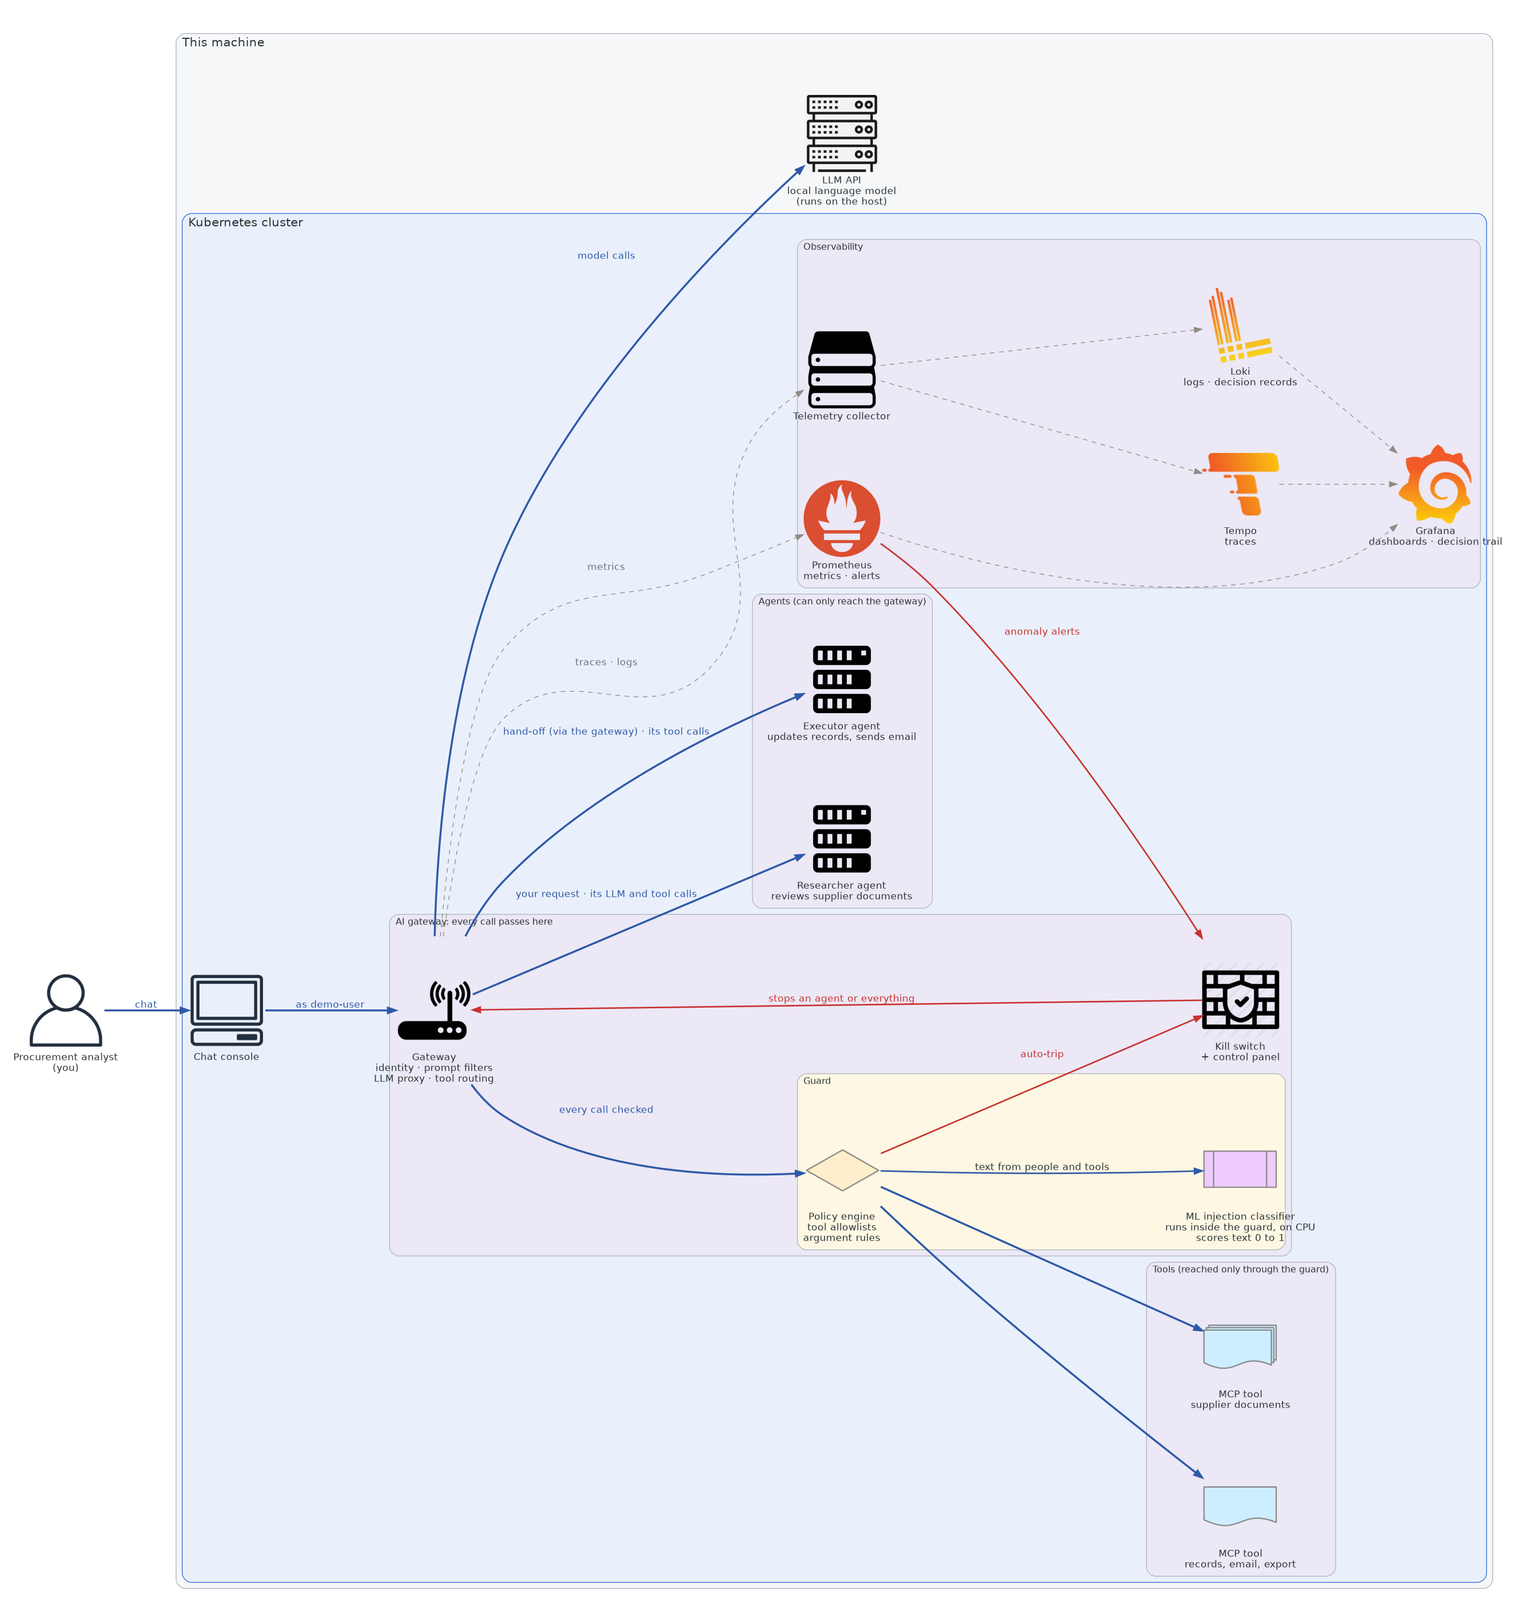
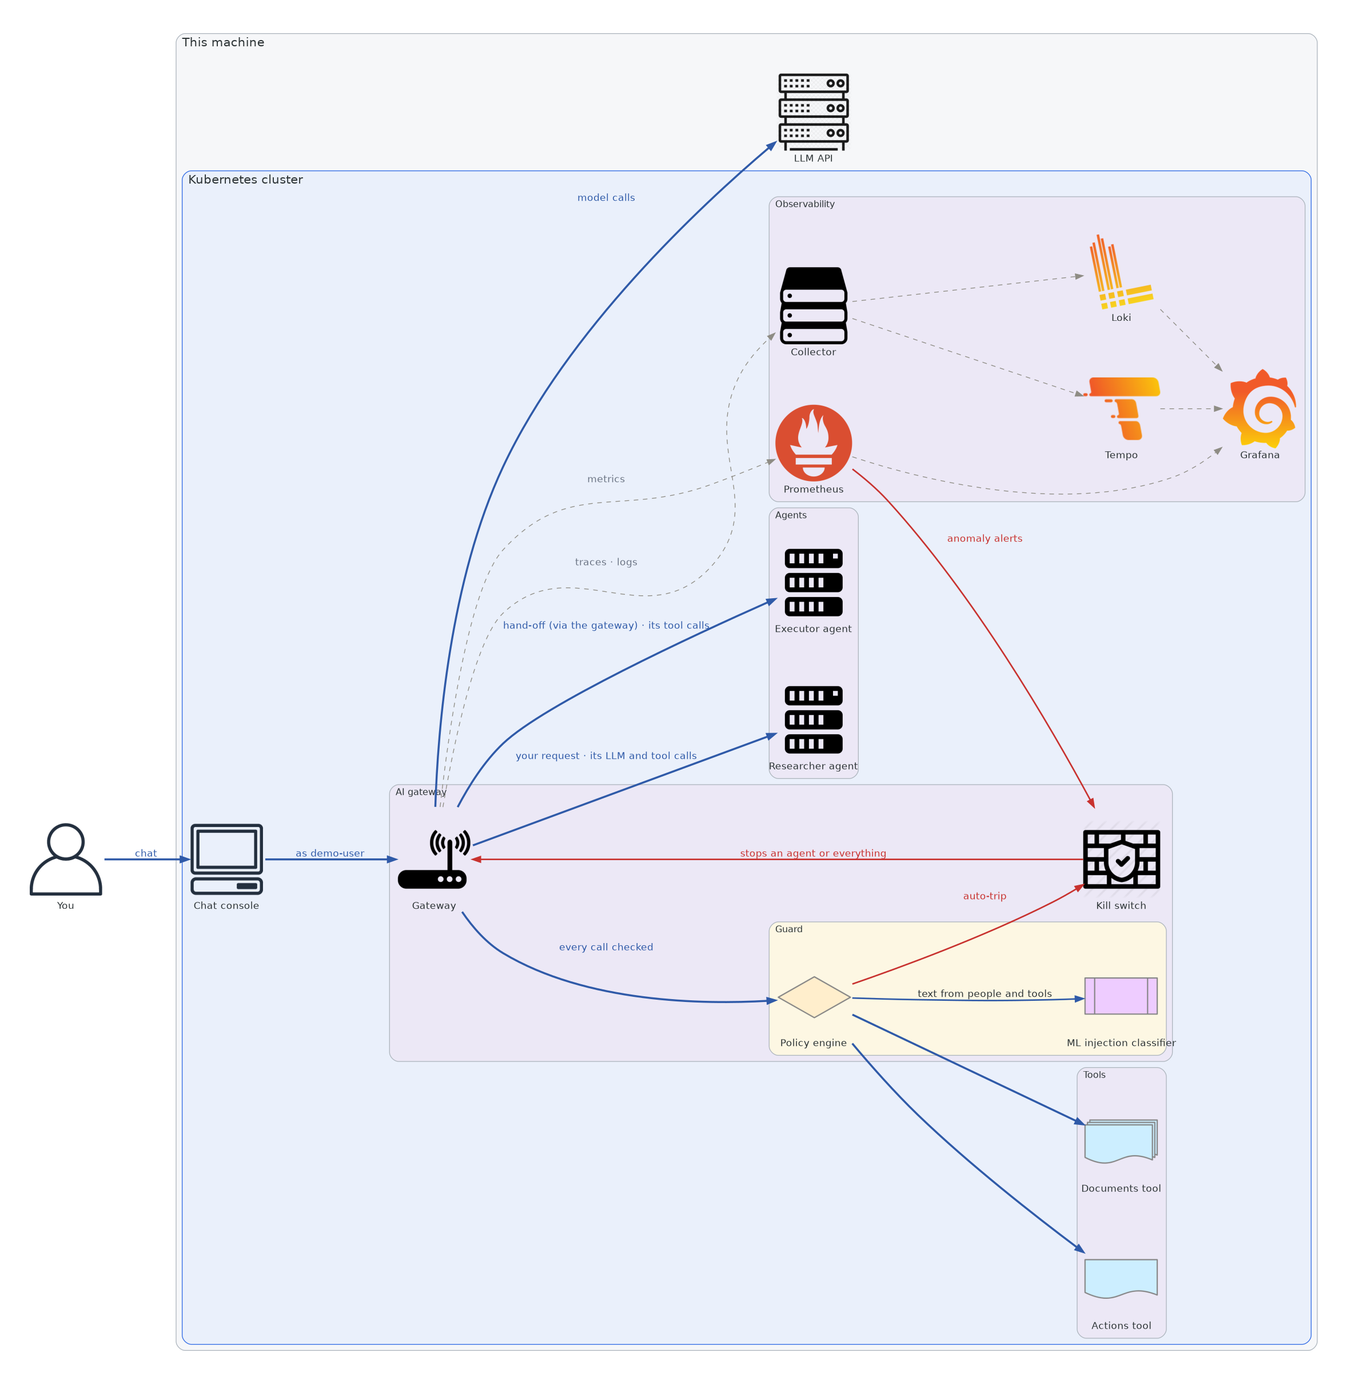
How it works as a clickable architecture page; components labelled by name only (D-049)

diff --git a/services/console/src/console_app/static/architecture.html b/services/console/src/console_app/static/architecture.html
@@ -1,0 +1,233 @@
+<!doctype html>
+<html lang="en">
+<head>
+<meta charset="utf-8">
+<meta name="viewport" content="width=device-width, initial-scale=1">
+<title>How it works</title>
+<link rel="preconnect" href="https://fonts.googleapis.com">
+<link rel="stylesheet" href="https://fonts.googleapis.com/css2?family=Atkinson+Hyperlegible+Next:wght@400;600;700&display=swap">
+<style>
+  :root {
+    --fog: #eef1f4; --paper: #ffffff; --ink: #1c2433; --muted: #6b7484;
+    --lane: #2f5aa8; --lane-soft: #d6e0f2; --stop: #c8322f; --stop-soft: #f7e1e0;
+    --rule: #d8dde4; --k8s: #326ce5; --k8s-soft: #e9effc; --obs: #8e8c84;
+    color-scheme: light;
+  }
+  @media (prefers-color-scheme: dark) {
+    :root:not([data-theme="light"]) {
+      --fog: #141a24; --paper: #1d2533; --ink: #e8ecf2; --muted: #9aa3b2;
+      --lane: #6f97e0; --lane-soft: #26375a; --stop: #f0706c; --stop-soft: #3a2224;
+      --rule: #2c3647; --k8s: #6f97e0; --k8s-soft: #18223a; --obs: #9aa3b2; color-scheme: dark;
+    }
+  }
+  * { box-sizing: border-box; }
+  body { margin: 0; background: var(--fog); color: var(--ink);
+    font: 400 16px/1.45 "Atkinson Hyperlegible Next", "Atkinson Hyperlegible", system-ui, sans-serif; }
+  header { padding: 14px clamp(16px, 3vw, 32px); border-bottom: 1px solid var(--rule); background: var(--paper);
+    display: flex; align-items: baseline; gap: 16px; flex-wrap: wrap; }
+  h1 { font-size: 1.15rem; margin: 0; }
+  header p { margin: 0; color: var(--muted); font-size: 0.9rem; }
+  header a { color: var(--muted); }
+  .spacer { flex: 1; }
+
+  .page { max-width: 76rem; margin: 0 auto; padding: 20px 16px 32px; display: grid; grid-template-columns: 1fr 20rem; gap: 20px; align-items: start; }
+  .map { display: flex; flex-direction: column; gap: 0; }
+
+  /* boundaries: the machine, and the Kubernetes cluster inside it */
+  .machine { border: 1px solid var(--rule); border-radius: 14px; padding: 12px; background: color-mix(in srgb, var(--paper) 40%, var(--fog)); }
+  .machine-grid { display: grid; grid-template-columns: 1fr 11rem; gap: 12px; align-items: stretch; }
+  .cluster { border: 2px solid var(--k8s); border-radius: 12px; padding: 12px; background: var(--k8s-soft); display: flex; flex-direction: column; }
+  .bound { font-size: 0.8rem; color: var(--muted); margin: 0 0 8px; font-weight: 600; }
+  .cluster > .bound { color: var(--k8s); }
+
+  .group { border: 1px solid var(--rule); border-radius: 10px; padding: 10px; background: var(--paper); }
+  .group.gw { border: 2px solid var(--lane); }
+  .group h2 { font-size: 0.85rem; margin: 0 0 8px; color: var(--muted); font-weight: 600; }
+  .group.gw h2 { color: var(--lane); }
+  .items { display: flex; gap: 8px; flex-wrap: wrap; }
+  .row3 { display: grid; grid-template-columns: 1fr 1fr; gap: 12px; }
+  .obs .items { display: grid; grid-template-columns: repeat(5, 1fr); }
+
+  button.c { font: inherit; text-align: left; flex: 1 1 9rem; min-width: 0; background: var(--fog); color: var(--ink);
+    border: 1px solid var(--rule); border-radius: 8px; padding: 8px 10px; cursor: pointer; }
+  button.c strong { display: block; font-size: 0.95rem; }
+  button.c span { display: block; color: var(--muted); font-size: 0.8rem; }
+  button.c:hover { border-color: var(--lane); }
+  button.c[aria-pressed="true"] { border-color: var(--lane); background: var(--lane-soft); }
+  button.c:focus-visible { outline: 3px solid var(--lane); outline-offset: 2px; }
+  button.c.ks { border-color: var(--stop); }
+  button.c.ks strong { color: var(--stop); }
+  .guard { flex: 2 1 18rem; border: 1px dashed var(--rule); border-radius: 8px; padding: 6px; display: flex; gap: 6px; flex-wrap: wrap; }
+  .guard > .bound { width: 100%; margin: 0 0 2px 4px; }
+
+  /* the links between layers */
+  .link { display: flex; align-items: center; gap: 10px; padding: 4px 0 4px 24px; color: var(--lane); font-size: 0.85rem; }
+  .link::before { content: ""; width: 2px; height: 22px; background: var(--lane); }
+  .link.obs-link { color: var(--obs); }
+  .link.obs-link::before { background: none; border-left: 2px dashed var(--obs); }
+  .you { display: flex; align-items: center; gap: 10px; }
+  .you button.c { flex: 0 1 16rem; }
+
+  .host { display: flex; flex-direction: column; gap: 8px; }
+  .host button.c { flex: none; background: var(--paper); }
+  .host .note { color: var(--lane); font-size: 0.8rem; }
+
+  .key { display: flex; gap: 18px; flex-wrap: wrap; color: var(--muted); font-size: 0.82rem; margin-top: 12px; }
+  .key i { display: inline-block; width: 22px; vertical-align: middle; margin-right: 6px; border-top: 2px solid var(--lane); }
+  .key i.ctl { border-color: var(--stop); }
+  .key i.tel { border-top: 2px dashed var(--obs); }
+
+  aside { position: sticky; top: 16px; background: var(--paper); border: 1px solid var(--rule); border-radius: 12px; padding: 16px 18px; }
+  aside h2 { font-size: 1.1rem; margin: 0 0 6px; }
+  aside p { margin: 0 0 10px; }
+  aside .demo { color: var(--muted); font-size: 0.92rem; border-top: 1px solid var(--rule); padding-top: 10px; }
+
+  @media (max-width: 960px) {
+    .page { grid-template-columns: 1fr; }
+    aside { position: static; order: -1; }
+    .machine-grid { grid-template-columns: 1fr; }
+    .obs .items { grid-template-columns: repeat(2, 1fr); }
+    .row3 { grid-template-columns: 1fr; }
+  }
+</style>
+</head>
+<body>
+<header>
+  <h1>How it works</h1>
+  <p>Acme's supplier assistant, and the gateway every call passes through. Click any part to see what it does.</p>
+  <span class="spacer"></span>
+  <p><a href="./">Back to the chat</a></p>
+</header>
+
+<div class="page">
+  <div class="map">
+    <div class="you">
+      <button class="c" data-k="you"><strong>You</strong></button>
+    </div>
+    <div class="link">you chat in the browser</div>
+
+    <div class="machine">
+      <p class="bound">This machine</p>
+      <div class="machine-grid">
+        <div class="cluster">
+          <p class="bound">Kubernetes cluster</p>
+
+          <div class="group"><div class="items">
+            <button class="c" data-k="console"><strong>Chat console</strong></button>
+          </div></div>
+          <div class="link">every message goes to the gateway</div>
+
+          <div class="group gw">
+            <h2>AI gateway</h2>
+            <div class="items">
+              <button class="c" data-k="gateway"><strong>Gateway</strong></button>
+              <div class="guard">
+                <p class="bound">Guard</p>
+                <button class="c" data-k="policy"><strong>Policy engine</strong></button>
+                <button class="c" data-k="classifier"><strong>ML injection classifier</strong></button>
+              </div>
+              <button class="c ks" data-k="killswitch"><strong>Kill switch</strong></button>
+            </div>
+          </div>
+          <div class="link">agents and tools are reached only through the gateway</div>
+
+          <div class="row3">
+            <div class="group">
+              <h2>Agents</h2>
+              <div class="items">
+                <button class="c" data-k="researcher"><strong>Researcher agent</strong></button>
+                <button class="c" data-k="executor"><strong>Executor agent</strong></button>
+              </div>
+            </div>
+            <div class="group">
+              <h2>Tools</h2>
+              <div class="items">
+                <button class="c" data-k="docs"><strong>Documents tool</strong></button>
+                <button class="c" data-k="actions"><strong>Actions tool</strong></button>
+              </div>
+            </div>
+          </div>
+          <div class="link obs-link">everything reports traces, logs and metrics</div>
+
+          <div class="group obs">
+            <h2>Observability</h2>
+            <div class="items">
+              <button class="c" data-k="collector"><strong>Collector</strong></button>
+              <button class="c" data-k="tempo"><strong>Tempo</strong></button>
+              <button class="c" data-k="loki"><strong>Loki</strong></button>
+              <button class="c" data-k="prometheus"><strong>Prometheus</strong></button>
+              <button class="c" data-k="grafana"><strong>Grafana</strong></button>
+            </div>
+          </div>
+        </div>
+
+        <div class="host">
+          <p class="bound">Host</p>
+          <button class="c" data-k="llm"><strong>LLM API</strong></button>
+          <p class="note">reached only through the gateway</p>
+        </div>
+      </div>
+    </div>
+
+    <div class="key">
+      <span><i></i>requests</span>
+      <span><i class="ctl"></i>kill switch</span>
+      <span><i class="tel"></i>telemetry</span>
+    </div>
+  </div>
+
+  <aside aria-live="polite">
+    <h2 id="t"></h2>
+    <p id="d"></p>
+    <p class="demo" id="demo"></p>
+  </aside>
+</div>
+
+<script>
+const INFO = {
+  overview: ["The idea",
+    "Two AI agents do procurement work for Acme. They can't reach anything directly: the model, the tools and even each other are reached only through one gateway. That's where every call is identified, checked, recorded and, when needed, stopped.",
+    "Click any part of the diagram to see what it does."],
+  you: ["You", "A procurement analyst at Acme. You ask the assistant about suppliers and ask it to deal with their open items.",
+    "In the demo: everything you type is checked by the gateway before the assistant sees it."],
+  console: ["Chat console", "The chat page you're using. Its server holds the demo-user key, so the browser never sees a secret, and it sends every message to the gateway.",
+    "In the demo: Monitoring shows where each message went; Decision details opens the decision trail."],
+  gateway: ["Gateway", "The one way in and out. It checks who is calling (each agent has its own key), routes each call, proxies model calls to the LLM API, and asks the guard about anything risky.",
+    "In the demo: an agent with its kill switch on gets nothing past this point."],
+  policy: ["Policy engine", "The guard's rules, with no machine learning: which agent may use which tool, which email domains and record fields are allowed, and that no agent may ever export customer data. A critical violation suspends the agent at once.",
+    "In the demo: this is what stops the executor in the Coastal beat, although the document itself looked harmless."],
+  classifier: ["ML injection classifier", "A small machine-learning model trained to spot prompt injection. It's a text classifier, not a chat model, and it runs inside the guard on the CPU in tens of milliseconds. It scores what people send and what tools return; long documents are scored in sections.",
+    "In the demo: it blocks the typed attack and withholds the Meridian and Northstar documents."],
+  killswitch: ["Kill switch", "Stops one agent, all tools, or everything, by changing the gateway's configuration and then checking the change took effect. Every action is written to a tamper-evident audit log. The guard and alerts can pull it automatically; an operator can pull it from the control panel.",
+    "In the demo: it suspends the executor in the Coastal beat and the looping researcher in the rogue beat."],
+  researcher: ["Researcher agent", "Reads supplier review documents and answers your questions. It can't act on anything itself; follow-ups go to the executor, through the gateway.",
+    "In the demo: it's the agent you chat with."],
+  executor: ["Executor agent", "Carries out the routine follow-ups the researcher hands it: updating supplier records and emailing internal teams.",
+    "In the demo: it tries the customer export in the Coastal beat and is stopped."],
+  docs: ["Documents tool", "Holds the supplier review documents, including any you upload. What it returns is scanned by the guard before the agent sees it.",
+    "In the demo: the poisoned documents live here."],
+  actions: ["Actions tool", "Updates supplier records, sends email, and can export customer data. Each call is checked against policy before it runs.",
+    "In the demo: the export is denied to every agent."],
+  llm: ["LLM API", "The language model the agents think with. It runs on this machine, outside the cluster, and is reachable only through the gateway, which checks every request sent to it.",
+    "In the demo: story prompts use scripted answers so they behave the same every time; anything else goes to the live model."],
+  collector: ["Collector", "Receives traces and logs from the gateway, the guard, the agents and the tools, and sends them on to Tempo and Loki.", ""],
+  tempo: ["Tempo", "Stores traces: one per request, from your message through both agents, every guard decision and any kill.",
+    "In the demo: the bottom panel of the decision trail."],
+  loki: ["Loki", "Stores logs, including every guard decision with its score, rule and policy version.",
+    "In the demo: the decision trail's list of decisions comes from here."],
+  prometheus: ["Prometheus", "Collects metrics (requests, blocks, tool calls, tokens) and evaluates alert rules. When an agent behaves abnormally, an alert fires and the kill switch is pulled automatically.",
+    "In the demo: the tool-call spike alert stops the rogue agent."],
+  grafana: ["Grafana", "Dashboards over all of it: gateway overview, agent behaviour, incidents, and the decision trail for a single request.",
+    "In the demo: Agent Behaviour for the rogue beat, and the decision trail for the Coastal beat."],
+};
+const t = document.getElementById("t"), d = document.getElementById("d"), demo = document.getElementById("demo");
+function show(k) {
+  const [title, text, inDemo] = INFO[k];
+  t.textContent = title; d.textContent = text; demo.textContent = inDemo; demo.hidden = !inDemo;
+  document.querySelectorAll("button.c").forEach(b => b.setAttribute("aria-pressed", String(b.dataset.k === k)));
+}
+document.querySelectorAll("button.c").forEach(b => b.addEventListener("click", () => show(b.dataset.k)));
+show("overview");
+</script>
+</body>
+</html>

diff --git a/services/console/src/console_app/static/index.html b/services/console/src/console_app/static/index.html
@@ -130,7 +130,7 @@
 <header>
   <div>
     <h1>Supplier assistant</h1>
-    <p class="persona">Acme procurement. You're signed in as a procurement analyst. <a href="architecture.png" target="_blank" rel="noopener">How it works</a></p>
+    <p class="persona">Acme procurement. You're signed in as a procurement analyst. <a href="architecture" target="_blank" rel="noopener">How it works</a></p>
   </div>
   <span class="spacer"></span>
   <button class="hbtn" id="monitorBtn" type="button" aria-pressed="false" aria-controls="monitor">Monitoring</button>

diff --git a/docs/diagram/architecture.py b/docs/diagram/architecture.py
@@ -29,35 +29,35 @@ k8s = {"bgcolor": "#eaf0fb", "fontsize": "16", "pencolor": "#326ce5"}
 
 with Diagram("", filename="/out/architecture", show=False,
              direction="LR", outformat="png", graph_attr=graph, node_attr=node, edge_attr=edge):
-    analyst = User("Procurement analyst\n(you)")
+    analyst = User("You")
 
     with Cluster("This machine", graph_attr=host):
-        llm = Rack("LLM API\nlocal language model\n(runs on the host)")
+        llm = Rack("LLM API")
 
         with Cluster("Kubernetes cluster", graph_attr=k8s):
             console = Client("Chat console")
 
-            with Cluster("AI gateway: every call passes here"):
-                gateway = Router("Gateway\nidentity · prompt filters\nLLM proxy · tool routing")
+            with Cluster("AI gateway"):
+                gateway = Router("Gateway")
                 with Cluster("Guard"):
-                    guard = Decision("Policy engine\ntool allowlists\nargument rules")
-                    classifier = PredefinedProcess("ML injection classifier\nruns inside the guard, on CPU\nscores text 0 to 1")
-                killswitch = Firewall("Kill switch\n+ control panel")
+                    guard = Decision("Policy engine")
+                    classifier = PredefinedProcess("ML injection classifier")
+                killswitch = Firewall("Kill switch")
 
-            with Cluster("Agents (can only reach the gateway)"):
-                researcher = Server("Researcher agent\nreviews supplier documents")
-                executor = Server("Executor agent\nupdates records, sends email")
+            with Cluster("Agents"):
+                researcher = Server("Researcher agent")
+                executor = Server("Executor agent")
 
-            with Cluster("Tools (reached only through the guard)"):
-                docs = MultipleDocuments("MCP tool\nsupplier documents")
-                actions = Document("MCP tool\nrecords, email, export")
+            with Cluster("Tools"):
+                docs = MultipleDocuments("Documents tool")
+                actions = Document("Actions tool")
 
             with Cluster("Observability"):
-                collector = Storage("Telemetry collector")
-                tempo = Tempo("Tempo\ntraces")
-                loki = Loki("Loki\nlogs · decision records")
-                prometheus = Prometheus("Prometheus\nmetrics · alerts")
-                grafana = Grafana("Grafana\ndashboards · decision trail")
+                collector = Storage("Collector")
+                tempo = Tempo("Tempo")
+                loki = Loki("Loki")
+                prometheus = Prometheus("Prometheus")
+                grafana = Grafana("Grafana")
 
     analyst >> Edge(label="chat", **REQUEST) >> console >> Edge(label="as demo-user", **REQUEST) >> gateway
     gateway >> Edge(label="every call checked", **REQUEST) >> guard

diff --git a/services/console/src/console_app/app.py b/services/console/src/console_app/app.py
@@ -28,6 +28,12 @@ PAGE = (Path(__file__).parent / "static" / "index.html").read_text()
 app = create_app("console")
 
 
+@app.get("/architecture", response_class=HTMLResponse, include_in_schema=False)
+async def architecture_page() -> HTMLResponse:
+    """How it works: the architecture as a page you can click through (D-049)."""
+    return HTMLResponse((Path(__file__).parent / "static" / "architecture.html").read_text())
+
+
 @app.get("/architecture.png", include_in_schema=False)
 async def architecture():
     """The architecture diagram (make diagram), shown from the console header."""

diff --git a/docs/DEMO_SCRIPT.md b/docs/DEMO_SCRIPT.md
@@ -15,7 +15,7 @@
 | Screen | Address | Use |
 | --- | --- | --- |
 | Console | `http://<host>:8080/console` | The audience watches this |
-| Architecture | `http://<host>:8080/console/architecture.png` | Opening slide (also the **How it works** link in the console) |
+| Architecture | `http://<host>:8080/console/architecture` | Opening slide: click any part to explain it (also the **How it works** link in the console). A static image is at `/console/architecture.png` |
 | Grafana | `http://<host>:3001` | **Agent Behaviour** for beat 5; **Decision trail** opens from the console |
 | Kill switch | `http://<host>:8090` | Token: `cat .secrets/killswitch-operator-token` |
 | Prometheus | `http://<host>:9090/alerts` | Optional for beat 5: watch the alert go pending, then firing |
@@ -27,7 +27,7 @@ Press **New chat** in the console before you start, and turn on **Monitoring** i
 
 ## 0. The setup (architecture slide)
 
-**Show:** the architecture diagram.
+**Show:** the architecture page. Click a part as you mention it; the panel on the right explains it.
 
 **Say:** "This is Acme's procurement assistant. I'm an analyst; I chat with it here. The researcher agent reads supplier reviews; the executor acts on them. Notice that neither agent can reach anything directly: the model, the tools, even each other are all reached through the gateway. That one point is where we identify who's calling, check what they're asking for, record it, and stop it if we have to. Red lines are how we stop things; grey is what we record."
 

diff --git a/docs/DECISIONS.md b/docs/DECISIONS.md
@@ -583,3 +583,9 @@ The diagram now shows:
 - the observability stack by name: telemetry collector, Tempo (traces), Loki (logs and decision records), Prometheus (metrics and alerts) and Grafana (dashboards and the decision trail)
 
 The gateway and the models are still described by what they do (D-045).
+
+## D-049: "How it works" is a page you can click through
+
+- **The page.** `/console/architecture` draws the architecture as nested boxes: this machine (the LLM API on the host), the Kubernetes cluster, the AI gateway (gateway, guard with its policy engine and ML classifier, kill switch), agents, tools and observability. Clicking a part explains it in a side panel, with what it does in the demo. The console's **How it works** link opens it.
+- **Names only.** Components and groups are labelled by name only, here and in the generated PNG. Explanations live in the panel and the script.
+- **The PNG stays.** `make diagram` still writes it, for documents and slides.
